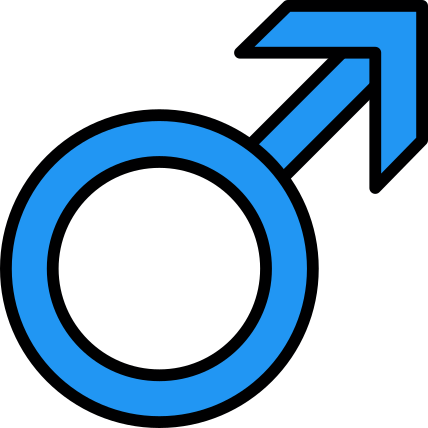
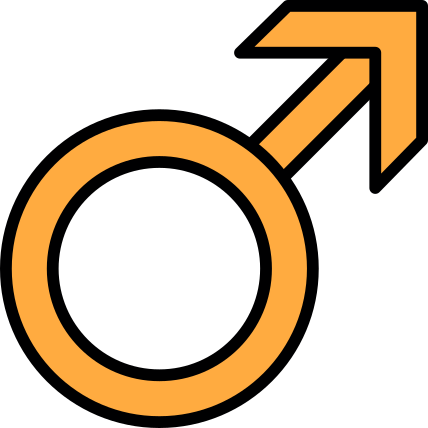
Change colors to not be so sexist

Changed region(s): [[0.0, 0.0, 0.972, 0.972]]

diff --git a/lib/main_screen.dart b/lib/main_screen.dart
@@ -60,7 +60,7 @@ class MainPageState extends State<MainPage> {
             width: MediaQuery.of(context).size.width,
             child: new Stack(
               children: <Widget>[
-                TopPanel(imageHeight: _imageHeight),
+                TopPanel(imageHeight: _imageHeight, hero: hero),
                 ProfileRow(imageHeight: _imageHeight, hero: hero),
                 License(screenHeight: screenHeight),
                 UserButton(screenHeight:screenHeight,
@@ -126,8 +126,9 @@ class UserButton extends StatelessWidget {
 //Builds empty panel on top of the screen
 class TopPanel extends StatelessWidget {
   final double imageHeight;
+  final Held hero;
 
-  TopPanel({this.imageHeight});
+  TopPanel({this.imageHeight, this.hero});
   @override
   Widget build(BuildContext context) {
     return new Positioned.fill(
@@ -137,7 +138,7 @@ class TopPanel extends StatelessWidget {
           child: Container(
               height: imageHeight,
               width: MediaQuery.of(context).size.width,
-              color: Colors.amber[200])
+              color: hero.geschlecht == 'w'? Colors.blueAccent : Colors.orangeAccent)
       ),
     );
   }
@@ -160,7 +161,7 @@ class ProfileRow extends StatelessWidget {
             new CircleAvatar(
                 minRadius: 64.0,
                 maxRadius: 64.0,
-                backgroundColor: (hero.geschlecht == 'w') ? Colors.red : Colors.blue,
+                backgroundColor: Colors.black,
                 child: Center(child: new CircleAvatar(
                     backgroundImage: new AssetImage(
                         'images/user_images/hund_${hero.iBild}.jpg'),
@@ -185,7 +186,6 @@ class ProfileRow extends StatelessWidget {
                     style: new TextStyle(
                         fontSize: 14.0,
                         fontStyle: FontStyle.italic,
-                        color: Colors.black,
                         fontWeight: FontWeight.w300),
                   ),
                 ],
@@ -222,15 +222,15 @@ class AnimatedButtonState extends State<AnimatedButton> with SingleTickerProvide
   //Define parameters for button size and menu size here
   final double _expandedSize = 240.0;
   final double _hiddenSize = 70.0;
-  //Colors for when menu is clicked and when it is not
-  Color _unselectedColor = Colors.amber[200];
-  Color _selectedColor = Colors.amber;
 
   AnimatedButtonState({this.updateHero, this.hero,
   this.screenWidth, this.screenHeight});
 
   @override
   void initState() {
+    //Colors for when menu is clicked and when it is not
+    Color _unselectedColor = hero.geschlecht == 'w'? Colors.blueAccent[200] : Colors.orangeAccent[200];
+    Color _selectedColor = hero.geschlecht == 'w'? Colors.blueAccent : Colors.orangeAccent;
     super.initState();
     //Animation controller for manu expansion
     _animationController = new AnimationController(

diff --git a/test/main_screen_test.dart b/test/main_screen_test.dart
@@ -2,18 +2,19 @@ import 'package:flutter_test/flutter_test.dart';
 import 'package:hundetage/main_screen.dart';
 import 'package:flutter/material.dart';
 import 'package:hundetage/main.dart';
+import 'utilities.dart';
 
 void main() {
   // Stuff we need for testing
   final Held _testHeld = new Held.initial();
 
-  // Test top panes of main menu
+  // Test top panels of main menu
   testWidgets('Test main-screen', (WidgetTester _tester) async {
     await _tester.pumpWidget(
         StaticTestWidget(returnWidget: ProfileRow(hero: _testHeld, imageHeight: 10.0))
     );
 
-    //See if main screen looks as it should
+    //See if the main screen looks as it should
     final _findUsername = find.text(_testHeld.name);
     final _findJob = find.text((_testHeld.geschlecht == 'w') ? 'Abenteurerin' : 'Abenteurer');
 
@@ -88,16 +89,4 @@ void main() {
       expect(_findAppText, findsOneWidget);
       }
     );
-}
-
-class StaticTestWidget extends StatelessWidget{
-  final Widget returnWidget;
-
-  StaticTestWidget({this.returnWidget});
-
-  @override
-  Widget build(BuildContext context) {
-    return MaterialApp(
-      home: Scaffold(body:returnWidget));
-  }
 }

diff --git a/test/user_settings_test.dart b/test/user_settings_test.dart
@@ -1,0 +1,19 @@
+import 'package:flutter_test/flutter_test.dart';
+import 'package:hundetage/main_screen.dart';
+import 'package:flutter/material.dart';
+import 'package:hundetage/main.dart';
+import 'utilities.dart';
+
+void main() {
+  // Stuff we need for testing
+  final Held _testHeld = new Held.initial();
+
+  // Test user menu - here we test the menu as a whole
+  testWidgets('Test user menu', (WidgetTester _tester) async {
+    AnimatedButton _widget = AnimatedButton(hero: _testHeld,updateHero: ()=>null);
+    await _tester.pumpWidget(
+        StaticTestWidget(returnWidget: _widget)
+    );
+
+  });
+}

diff --git a/lib/user_settings.dart b/lib/user_settings.dart
@@ -188,7 +188,7 @@ class GenderSelectorState extends State<GenderSelector>
                   decoration: BoxDecoration(
                     boxShadow: <BoxShadow>[BoxShadow(spreadRadius: 4)],
                       shape: BoxShape.circle,
-                      color: Colors.amber[200]
+                      color: Colors.transparent
                   )
               ),
               Center(child:maleIcon),

diff --git a/test/utilities.dart b/test/utilities.dart
@@ -1,0 +1,13 @@
+import 'package:flutter/material.dart';
+
+class StaticTestWidget extends StatelessWidget{
+  final Widget returnWidget;
+
+  StaticTestWidget({this.returnWidget});
+
+  @override
+  Widget build(BuildContext context) {
+    return MaterialApp(
+        home: Scaffold(body:returnWidget));
+  }
+}
